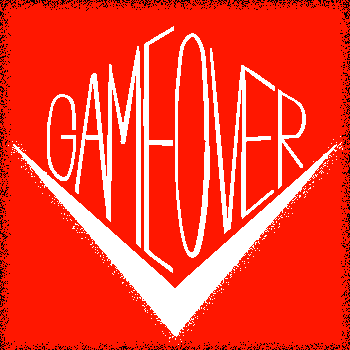
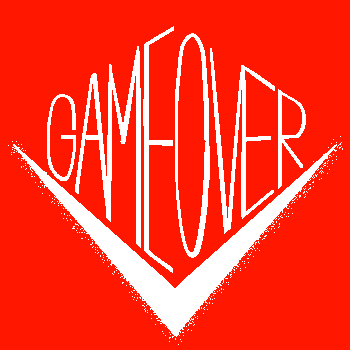
Implementación de fluidez al momento de pasar a una pantalla GameOver y Victoria.

Changed region(s): [[0.0, 0.0, 1.0, 1.0], [0.0571, 0.9714, 0.2, 1.0], [0.2286, 0.9714, 0.2571, 1.0]]

diff --git a/core/src/main/java/puppy/code/screens/GameScreen.java b/core/src/main/java/puppy/code/screens/GameScreen.java
@@ -1,14 +1,19 @@
 package puppy.code.screens;
 
+import com.badlogic.gdx.Gdx;
+import com.badlogic.gdx.audio.Music;
 import com.badlogic.gdx.graphics.Color;
+import com.badlogic.gdx.graphics.GL20;
 import com.badlogic.gdx.graphics.Texture;
 import com.badlogic.gdx.graphics.g2d.TextureRegion;
 import com.badlogic.gdx.graphics.glutils.ShapeRenderer.ShapeType;
+import com.badlogic.gdx.math.Interpolation;
 import java.util.ArrayList;
 import java.util.Iterator;
 import java.util.List;
 import puppy.code.app.ScreenNavigator;
 import puppy.code.assets.GameAssets;
+import puppy.code.config.GameConfig;
 import puppy.code.input.NavigationInput;
 import puppy.code.input.PlayerInput;
 import puppy.code.world.GamePhase;
@@ -22,6 +27,14 @@ public final class GameScreen extends AbstractGameScreen implements WorldAudioLi
     private static final float BLINK_STEPS_PER_SECOND = 10f;
     private static final float DASH_EFFECT_SECONDS = 0.20f;
     private static final float DASH_IMAGE_INTERVAL_SECONDS = 0.04f;
+    private static final float TRANSITION_DURATION_SECONDS = 1.8f;
+    private static final float BASE_MUSIC_VOLUME = 0.45f;
+
+    private enum TransitionType {
+        NONE,
+        GAME_OVER_FADE,
+        VICTORY_FADE
+    }
 
     private final ScreenNavigator navigator;
     private final GameWorld world;
@@ -34,6 +47,10 @@ public final class GameScreen extends AbstractGameScreen implements WorldAudioLi
     private float dashEffectTimer;
     private float dashSpawnCooldown;
     private boolean returnToMenuRequested;
+
+    private TransitionType activeTransition = TransitionType.NONE;
+    private float transitionTimer;
+    private boolean transitionCompleted;
 
     public GameScreen(
             GameAssets assets,
@@ -55,7 +72,10 @@ public final class GameScreen extends AbstractGameScreen implements WorldAudioLi
 
     @Override
     public void show() {
-        assets.playMusic(GameAssets.BACKGROUND_MUSIC, true, 0.45f);
+        activeTransition = TransitionType.NONE;
+        transitionTimer = 0f;
+        transitionCompleted = false;
+        assets.playMusic(GameAssets.BACKGROUND_MUSIC, true, BASE_MUSIC_VOLUME);
     }
 
     @Override
@@ -76,19 +96,43 @@ public final class GameScreen extends AbstractGameScreen implements WorldAudioLi
             return;
         }
 
+        // Transición cinemática con easing y fade out sonoro
+        if (activeTransition != TransitionType.NONE) {
+            transitionTimer = Math.max(0f, transitionTimer - delta);
+            float linearProgress = Math.min(1f, 1f - (transitionTimer / TRANSITION_DURATION_SECONDS));
+            float soundProgress = Interpolation.pow2In.apply(linearProgress);
+
+            Music bgm = assets.getMusic(GameAssets.BACKGROUND_MUSIC);
+            if (bgm != null && bgm.isPlaying()) {
+                bgm.setVolume(Math.max(0f, BASE_MUSIC_VOLUME * (1f - soundProgress)));
+            }
+
+            if (transitionTimer <= 0f && !transitionCompleted) {
+                transitionCompleted = true;
+                if (activeTransition == TransitionType.GAME_OVER_FADE) {
+                    navigator.showGameOver(snapshot.getScore(), snapshot.getLevel());
+                } else if (activeTransition == TransitionType.VICTORY_FADE) {
+                    navigator.showVictory(snapshot.getScore());
+                }
+            }
+            return;
+        }
+
         if (snapshot.getPhase() == GamePhase.GAME_OVER) {
-            navigator.showGameOver(snapshot.getScore(), snapshot.getLevel());
+            activeTransition = TransitionType.GAME_OVER_FADE;
+            transitionTimer = TRANSITION_DURATION_SECONDS;
             return;
         }
         if (snapshot.getPhase() == GamePhase.VICTORY) {
-            navigator.showVictory(snapshot.getScore());
+            activeTransition = TransitionType.VICTORY_FADE;
+            transitionTimer = TRANSITION_DURATION_SECONDS;
             return;
         }
         if (snapshot.getPhase() == GamePhase.LEVEL_COMPLETED) {
             if (navigationInput.anyActionJustPressed()) {
                 world.advanceToNextLevel();
                 snapshot = world.snapshot();
-                assets.playMusic(GameAssets.BACKGROUND_MUSIC, true, 0.45f);
+                assets.playMusic(GameAssets.BACKGROUND_MUSIC, true, BASE_MUSIC_VOLUME);
             }
             return;
         }
@@ -129,6 +173,12 @@ public final class GameScreen extends AbstractGameScreen implements WorldAudioLi
 
     @Override
     protected void draw(float delta) {
+        // Bloquea el renderizado de entidades en el fotograma de cambio para eliminar el parpadeo
+        if (transitionCompleted) {
+            drawFinalCover();
+            return;
+        }
+
         assets.batch().setProjectionMatrix(camera.combined);
         assets.batch().begin();
 
@@ -147,6 +197,58 @@ public final class GameScreen extends AbstractGameScreen implements WorldAudioLi
 
         assets.batch().end();
         drawFallbackEntities();
+        drawTransitionOverlay();
+    }
+
+    /** Dibuja el filtro en progreso con blending alfa sobre la batalla. */
+    private void drawTransitionOverlay() {
+        if (activeTransition == TransitionType.NONE) {
+            return;
+        }
+
+        float linearProgress = Math.min(1f, 1f - (transitionTimer / TRANSITION_DURATION_SECONDS));
+        float progress = Interpolation.fade.apply(linearProgress);
+
+        Gdx.gl.glEnable(GL20.GL_BLEND);
+        Gdx.gl.glBlendFunc(GL20.GL_SRC_ALPHA, GL20.GL_ONE_MINUS_SRC_ALPHA);
+
+        assets.shapes().setProjectionMatrix(camera.combined);
+        assets.shapes().begin(ShapeType.Filled);
+
+        if (activeTransition == TransitionType.GAME_OVER_FADE) {
+            assets.shapes().setColor(
+                    GameOverScreen.BG_RED_R,
+                    GameOverScreen.BG_RED_G,
+                    GameOverScreen.BG_RED_B,
+                    progress);
+        } else if (activeTransition == TransitionType.VICTORY_FADE) {
+            assets.shapes().setColor(1f, 1f, 1f, progress);
+        }
+
+        assets.shapes().rect(0f, 0f, GameConfig.WORLD_WIDTH, GameConfig.WORLD_HEIGHT);
+        assets.shapes().end();
+
+        Gdx.gl.glDisable(GL20.GL_BLEND);
+    }
+
+    /** Cubre el 100% de la pantalla en sólido justo en el frame en que se cambia de pantalla. */
+    private void drawFinalCover() {
+        Gdx.gl.glDisable(GL20.GL_BLEND);
+        assets.shapes().setProjectionMatrix(camera.combined);
+        assets.shapes().begin(ShapeType.Filled);
+
+        if (activeTransition == TransitionType.GAME_OVER_FADE) {
+            assets.shapes().setColor(
+                    GameOverScreen.BG_RED_R,
+                    GameOverScreen.BG_RED_G,
+                    GameOverScreen.BG_RED_B,
+                    1f);
+        } else if (activeTransition == TransitionType.VICTORY_FADE) {
+            assets.shapes().setColor(Color.WHITE);
+        }
+
+        assets.shapes().rect(0f, 0f, GameConfig.WORLD_WIDTH, GameConfig.WORLD_HEIGHT);
+        assets.shapes().end();
     }
 
     private void drawShip() {

diff --git a/core/src/main/java/puppy/code/screens/GameOverScreen.java b/core/src/main/java/puppy/code/screens/GameOverScreen.java
@@ -1,6 +1,7 @@
 package puppy.code.screens;
 
 import com.badlogic.gdx.graphics.Texture;
+import com.badlogic.gdx.utils.ScreenUtils;
 import java.util.List;
 import puppy.code.app.ScreenNavigator;
 import puppy.code.assets.GameAssets;
@@ -10,6 +11,11 @@ import puppy.code.systems.ScoreRepository;
 
 /** Presenta la derrota y permite guardar iniciales si el resultado entra al Top 3. */
 public final class GameOverScreen extends AbstractGameScreen {
+
+    // Color de fondo calibrado para coincidir con el banner arcade de Game Over
+    public static final float BG_RED_R = 1.0f;
+    public static final float BG_RED_G = 23f / 255f;
+    public static final float BG_RED_B = 0.0f;
 
     private final ScreenNavigator navigator;
     private final NavigationInput input;
@@ -51,6 +57,18 @@ public final class GameOverScreen extends AbstractGameScreen {
     @Override
     public void hide() {
         assets.stopMusic();
+    }
+
+    @Override
+    protected void clearScreen() {
+        // Limpia el búfer con el tono de rojo exacto compartido con GameScreen
+        ScreenUtils.clear(BG_RED_R, BG_RED_G, BG_RED_B, 1f);
+        viewport.apply();
+    }
+
+    @Override
+    protected void renderBackground(float delta) {
+        // Anula el Starfield y la textura espacial para conservar el fondo rojo uniforme
     }
 
     @Override
